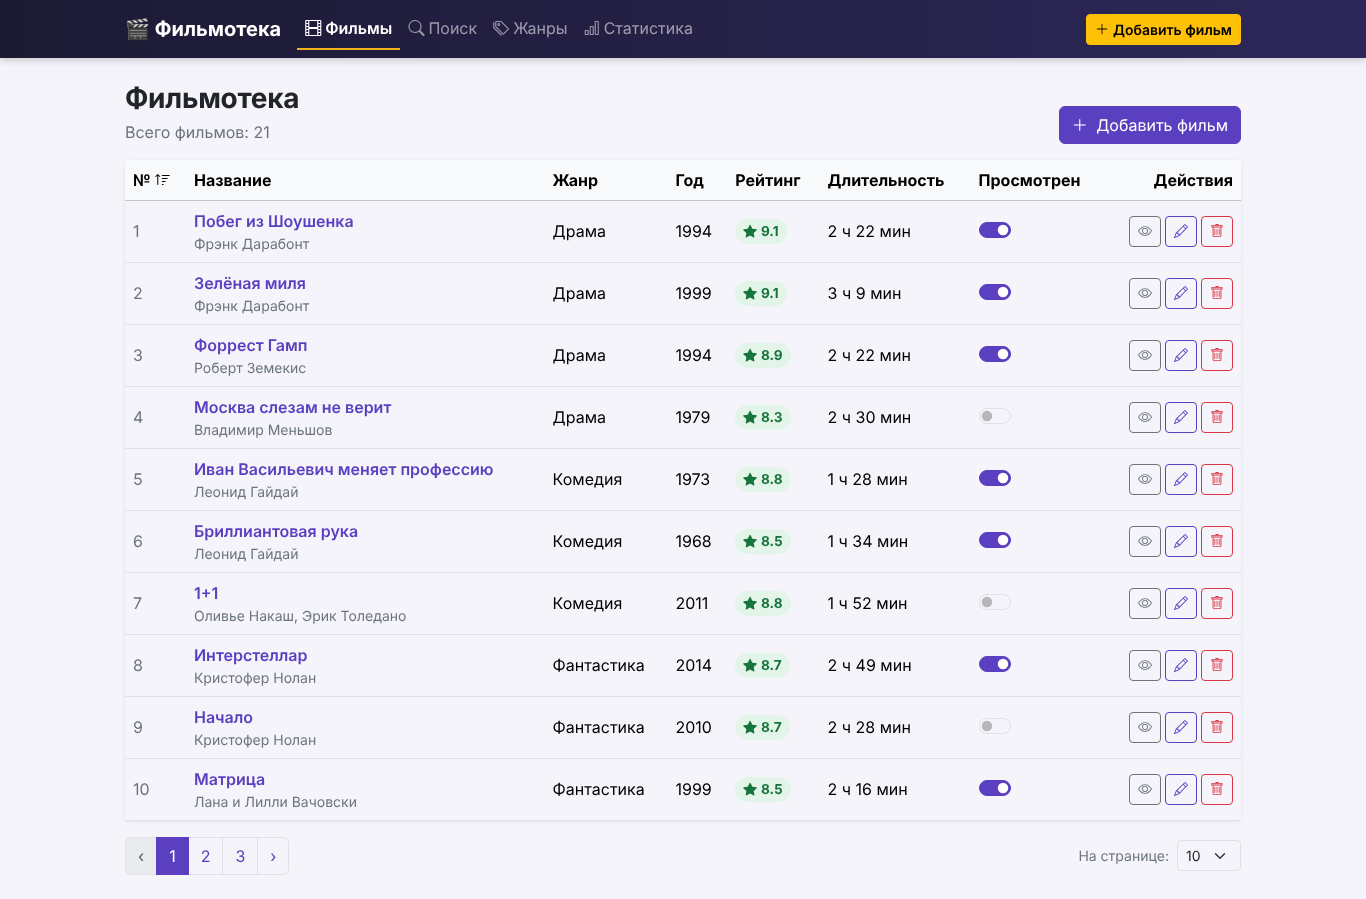
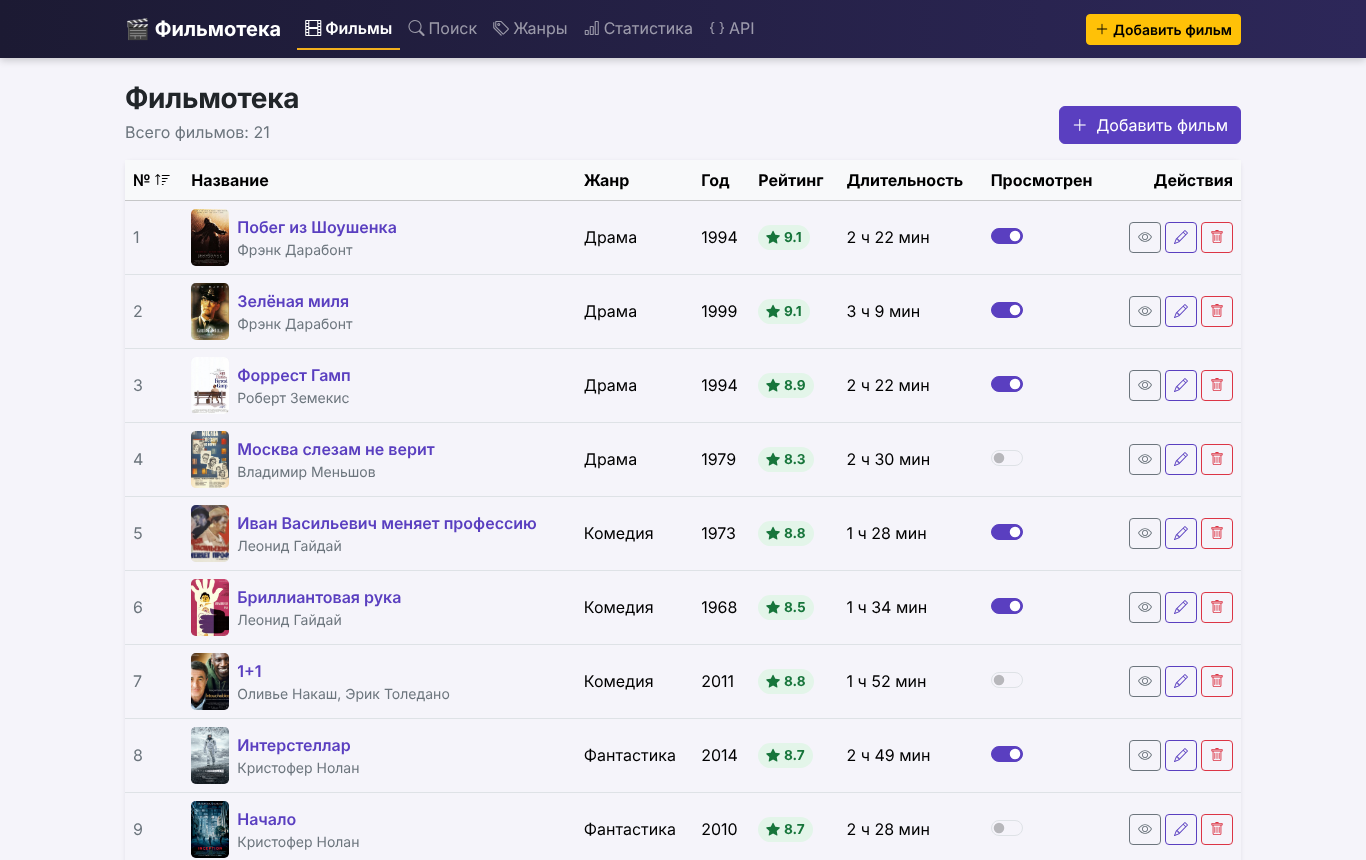
Обложки фильмов: поле poster_url, постеры для стартовых данных, превью в форме
Claude-Session: https://claude.ai/code/session_013Cf29666WTP9W9PGkbtcm4

diff --git a/frontend/src/pages/MovieFormPage.jsx b/frontend/src/pages/MovieFormPage.jsx
@@ -4,11 +4,12 @@ import { useNavigate, useParams } from 'react-router-dom'
 import {
   createMovie, errorMessage, fieldErrors, getGenres, getMovie, updateMovie,
 } from '../api/client.js'
+import Poster from '../components/Poster.jsx'
 
 const MAX_YEAR = new Date().getFullYear() + 5
 const EMPTY = {
   title: '', director: '', genre_id: '', year: '', country: '', duration: '', rating: '',
-  description: '', is_watched: false,
+  description: '', poster_url: '', is_watched: false,
 }
 
 // Проверка на клиенте (повторяет правила бэкенда, чтобы не ждать ответа сервера)
@@ -26,6 +27,8 @@ function validate(f) {
   if (f.rating === '' || Number(f.rating) < 0 || Number(f.rating) > 10)
     e.rating = 'Число от 0 до 10'
   if (f.description.length > 1000) e.description = 'Максимум 1000 символов'
+  if (f.poster_url.trim() && !/^https?:\/\//.test(f.poster_url.trim()))
+    e.poster_url = 'Ссылка должна начинаться с http:// или https://'
   return e
 }
 
@@ -72,6 +75,7 @@ export default function MovieFormPage() {
       director: form.director.trim(),
       country: form.country.trim(),
       description: form.description.trim(),
+      poster_url: form.poster_url.trim(),
       year: Number(form.year),
       duration: Number(form.duration),
       rating: Number(form.rating),
@@ -158,6 +162,23 @@ export default function MovieFormPage() {
               <textarea {...field('description', { rows: 3, maxLength: 1000 })} />
               <div className="form-text text-end">{form.description.length}/1000</div>
               {feedback('description')}
+            </div>
+            <div className="col-12">
+              <label htmlFor="poster_url" className="form-label">Ссылка на обложку</label>
+              <div className="d-flex gap-3 align-items-start">
+                <div className="flex-grow-1">
+                  <input {...field('poster_url', { type: 'url', maxLength: 500,
+                    placeholder: 'https://upload.wikimedia.org/…/poster.jpg' })} />
+                  {feedback('poster_url')}
+                  <div className="form-text">
+                    Необязательно. Прямая ссылка на картинку (jpg, png, webp). Без обложки
+                    показывается значок жанра.
+                  </div>
+                </div>
+                <Poster url={form.poster_url.trim()} title={form.title}
+                        genre={genres.find((g) => String(g.id) === String(form.genre_id))?.name}
+                        size="preview" />
+              </div>
             </div>
             <div className="col-12">
               <div className="form-check form-switch">

diff --git a/frontend/src/pages/MovieListPage.jsx b/frontend/src/pages/MovieListPage.jsx
@@ -4,6 +4,7 @@ import { Link, useSearchParams } from 'react-router-dom'
 import { deleteMovie, errorMessage, getMovies, patchMovie } from '../api/client.js'
 import ConfirmModal from '../components/ConfirmModal.jsx'
 import Pagination from '../components/Pagination.jsx'
+import Poster from '../components/Poster.jsx'
 import RatingBadge from '../components/RatingBadge.jsx'
 import { formatDuration } from '../utils.js'
 
@@ -114,10 +115,15 @@ export default function MovieListPage() {
                 <tr key={m.id}>
                   <td className="text-secondary">{m.id}</td>
                   <td>
-                    <Link to={`/movies/${m.id}`} className="fw-semibold text-decoration-none">
-                      {m.title}
-                    </Link>
-                    <div className="small text-secondary">{m.director}</div>
+                    <div className="d-flex align-items-center gap-2">
+                      <Poster url={m.poster_url} genre={m.genre_name} title={m.title} size="thumb" />
+                      <div>
+                        <Link to={`/movies/${m.id}`} className="fw-semibold text-decoration-none">
+                          {m.title}
+                        </Link>
+                        <div className="small text-secondary">{m.director}</div>
+                      </div>
+                    </div>
                   </td>
                   <td>{m.genre_name}</td>
                   <td>{m.year}</td>

diff --git a/frontend/src/components/Poster.jsx b/frontend/src/components/Poster.jsx
@@ -1,0 +1,29 @@
+import { useEffect, useState } from 'react'
+import { genreIcon } from '../utils.js'
+
+/**
+ * Обложка фильма. Если ссылки нет или картинка не загрузилась —
+ * показывается заглушка с иконкой жанра.
+ * size: 'card' (карточка поиска) | 'lg' (страница фильма) | 'thumb' (таблица) | 'preview' (форма)
+ */
+export default function Poster({ url, genre, title = '', size = 'card', className = '' }) {
+  const [failed, setFailed] = useState(false)
+  useEffect(() => setFailed(false), [url]) // новая ссылка — пробуем загрузить заново
+
+  const showImage = url && !failed
+  return (
+    <div className={`poster poster-${size} ${showImage ? 'has-image' : ''} ${className}`}>
+      {showImage ? (
+        <img
+          src={url}
+          alt={title ? `Обложка: ${title}` : 'Обложка'}
+          loading="lazy"
+          referrerPolicy="no-referrer"
+          onError={() => setFailed(true)}
+        />
+      ) : (
+        <span aria-hidden="true">{genreIcon(genre)}</span>
+      )}
+    </div>
+  )
+}

diff --git a/frontend/src/pages/MovieDetailsPage.jsx b/frontend/src/pages/MovieDetailsPage.jsx
@@ -3,8 +3,9 @@ import { useEffect, useState } from 'react'
 import { Link, useNavigate, useParams } from 'react-router-dom'
 import { deleteMovie, errorMessage, getMovie, patchMovie } from '../api/client.js'
 import ConfirmModal from '../components/ConfirmModal.jsx'
+import Poster from '../components/Poster.jsx'
 import RatingBadge from '../components/RatingBadge.jsx'
-import { formatDate, formatDuration, genreIcon } from '../utils.js'
+import { formatDate, formatDuration } from '../utils.js'
 
 export default function MovieDetailsPage() {
   const { id } = useParams()
@@ -68,7 +69,8 @@ export default function MovieDetailsPage() {
         <div className="card-body p-4">
           <div className="row g-4">
             <div className="col-md-auto">
-              <div className="poster poster-lg mx-auto">{genreIcon(movie.genre_name)}</div>
+              <Poster url={movie.poster_url} genre={movie.genre_name} title={movie.title}
+                      size="lg" className="mx-auto" />
             </div>
             <div className="col">
               <div className="d-flex flex-wrap justify-content-between align-items-start gap-3">

diff --git a/frontend/src/pages/SearchPage.jsx b/frontend/src/pages/SearchPage.jsx
@@ -3,6 +3,7 @@ import { useEffect, useState } from 'react'
 import { Link, useSearchParams } from 'react-router-dom'
 import { errorMessage, getGenres, getMovies } from '../api/client.js'
 import Pagination from '../components/Pagination.jsx'
+import Poster from '../components/Poster.jsx'
 import RatingBadge from '../components/RatingBadge.jsx'
 import { formatDuration, genreIcon } from '../utils.js'
 
@@ -149,7 +150,7 @@ export default function SearchPage() {
                 <Link to={`/movies/${m.id}`} className="text-reset text-decoration-none">
                   <div className="card h-100 movie-card">
                     <div className="card-body d-flex flex-column">
-                      <div className="poster mb-3">{genreIcon(m.genre_name)}</div>
+                      <Poster url={m.poster_url} genre={m.genre_name} title={m.title} className="mb-3" />
                       <div className="d-flex justify-content-between align-items-start gap-2">
                         <h2 className="h6 fw-bold mb-1">{m.title}</h2>
                         <RatingBadge rating={m.rating} />

diff --git a/frontend/src/index.css b/frontend/src/index.css
@@ -123,15 +123,34 @@ body {
   display: flex;
   align-items: center;
   justify-content: center;
-  aspect-ratio: 16 / 9;
+  flex-shrink: 0;
+  overflow: hidden;
+  aspect-ratio: 2 / 3;
   border-radius: 0.5rem;
   background: linear-gradient(160deg, #2d2759, var(--mv-violet));
   font-size: 2.6rem;
 }
+.poster.has-image {
+  background: #e8e5f4;
+}
+.poster img {
+  width: 100%;
+  height: 100%;
+  object-fit: cover;
+}
 .poster-lg {
-  width: 180px;
-  aspect-ratio: 2 / 3;
+  width: 200px;
   font-size: 4.5rem;
+  box-shadow: 0 6px 18px rgba(28, 26, 51, 0.25);
+}
+.poster-thumb {
+  width: 38px;
+  border-radius: 0.3rem;
+  font-size: 1.1rem;
+}
+.poster-preview {
+  width: 120px;
+  font-size: 2.5rem;
 }
 
 .stat-value {

diff --git a/backend/app/seed.py b/backend/app/seed.py
@@ -64,6 +64,32 @@ MOVIES = [
 ]
 
 
+# Обложки: постеры из статей англоязычной Википедии (upload.wikimedia.org)
+POSTERS = {
+    "Побег из Шоушенка": "https://upload.wikimedia.org/wikipedia/en/8/81/ShawshankRedemptionMoviePoster.jpg",
+    "Зелёная миля": "https://upload.wikimedia.org/wikipedia/en/e/e2/The_Green_Mile_%28movie_poster%29.jpg",
+    "Форрест Гамп": "https://upload.wikimedia.org/wikipedia/en/6/67/Forrest_Gump_poster.jpg",
+    "Москва слезам не верит": "https://upload.wikimedia.org/wikipedia/en/a/a3/Moscow_for_US.jpg",
+    "Иван Васильевич меняет профессию": "https://upload.wikimedia.org/wikipedia/en/c/c6/Ivan_Vasilievich_poster.jpg",
+    "Бриллиантовая рука": "https://upload.wikimedia.org/wikipedia/en/9/90/Brilruka.jpg",
+    "1+1": "https://upload.wikimedia.org/wikipedia/en/9/93/The_Intouchables.jpg",
+    "Интерстеллар": "https://upload.wikimedia.org/wikipedia/en/b/bc/Interstellar_film_poster.jpg",
+    "Начало": "https://upload.wikimedia.org/wikipedia/en/2/2e/Inception_%282010%29_theatrical_poster.jpg",
+    "Матрица": "https://upload.wikimedia.org/wikipedia/en/d/db/The_Matrix.png",
+    "Дюна": "https://upload.wikimedia.org/wikipedia/en/8/8e/Dune_%282021_film%29.jpg",
+    "Тёмный рыцарь": "https://upload.wikimedia.org/wikipedia/en/1/1c/The_Dark_Knight_%282008_film%29.jpg",
+    "Безумный Макс: Дорога ярости": "https://upload.wikimedia.org/wikipedia/en/6/6e/Mad_Max_Fury_Road.jpg",
+    "Остров проклятых": "https://upload.wikimedia.org/wikipedia/en/7/76/Shutterislandposter.jpg",
+    "Молчание ягнят": "https://upload.wikimedia.org/wikipedia/en/8/86/The_Silence_of_the_Lambs_poster.jpg",
+    "Криминальное чтиво": "https://upload.wikimedia.org/wikipedia/en/3/3b/Pulp_Fiction_%281994%29_poster.jpg",
+    "Крёстный отец": "https://upload.wikimedia.org/wikipedia/en/1/1c/Godfather_ver1.jpg",
+    "Брат": "https://upload.wikimedia.org/wikipedia/en/4/4f/BrotherPoster.jpg",
+    "Унесённые призраками": "https://upload.wikimedia.org/wikipedia/en/d/db/Spirited_Away_Japanese_poster.png",
+    "Король Лев": "https://upload.wikimedia.org/wikipedia/en/3/3d/The_Lion_King_poster.jpg",
+    "ВАЛЛ·И": "https://upload.wikimedia.org/wikipedia/en/4/4c/WALL-E_poster.jpg",
+}
+
+
 def seed_if_empty(db: Session) -> None:
     if db.scalar(select(func.count(Genre.id))):
         return
@@ -74,5 +100,14 @@ def seed_if_empty(db: Session) -> None:
         db.add(Movie(
             title=title, year=year, director=director, country=country, duration=duration,
             rating=rating, is_watched=watched, genre_id=genres[genre].id, description=desc,
+            poster_url=POSTERS.get(title, ""),
         ))
+    db.commit()
+
+
+def fill_missing_posters(db: Session) -> None:
+    """Для базы, созданной до появления обложек: проставить их стартовым фильмам."""
+    for movie in db.scalars(select(Movie).where(Movie.poster_url == "")):
+        if movie.title in POSTERS:
+            movie.poster_url = POSTERS[movie.title]
     db.commit()

diff --git a/backend/app/schemas.py b/backend/app/schemas.py
@@ -11,6 +11,12 @@ def max_year() -> int:
     return date.today().year + 5  # разрешаем анонсированные фильмы
 
 
+def _check_url(value):
+    if value and not value.startswith(("http://", "https://")):
+        raise ValueError("Ссылка на обложку должна начинаться с http:// или https://")
+    return value
+
+
 class _Input(BaseModel):
     # обрезаем пробелы по краям строк и запрещаем неизвестные поля
     model_config = ConfigDict(str_strip_whitespace=True, extra="forbid")
@@ -57,9 +63,12 @@ class MovieBase(_Input):
     rating: float = Field(..., ge=0, le=10, description="Рейтинг 0–10", examples=[8.7])
     duration: int = Field(..., gt=0, le=1000, description="Длительность, мин", examples=[169])
     is_watched: bool = Field(False, description="Просмотрен")
+    poster_url: str = Field("", max_length=500, description="Ссылка на обложку (http/https)",
+                            examples=["https://upload.wikimedia.org/wikipedia/en/b/bc/Interstellar_film_poster.jpg"])
     genre_id: int = Field(..., gt=0, description="ID жанра", examples=[3])
 
     validate_year = field_validator("year")(_check_year)
+    validate_url = field_validator("poster_url")(_check_url)
 
     @field_validator("rating")
     @classmethod
@@ -86,9 +95,11 @@ class MoviePatch(_Input):
     rating: Optional[float] = Field(None, ge=0, le=10)
     duration: Optional[int] = Field(None, gt=0, le=1000)
     is_watched: Optional[bool] = None
+    poster_url: Optional[str] = Field(None, max_length=500)
     genre_id: Optional[int] = Field(None, gt=0)
 
     validate_year = field_validator("year")(_check_year)
+    validate_url = field_validator("poster_url")(_check_url)
 
     @model_validator(mode="after")
     def _not_empty(self):
@@ -109,6 +120,7 @@ class MovieOut(BaseModel):
     rating: float
     duration: int
     is_watched: bool
+    poster_url: str
     genre_id: int
     genre_name: str
     created_at: datetime

diff --git a/backend/app/main.py b/backend/app/main.py
@@ -10,17 +10,34 @@ from pathlib import Path
 from fastapi import FastAPI, HTTPException
 from fastapi.middleware.cors import CORSMiddleware
 from fastapi.responses import FileResponse, RedirectResponse
+from sqlalchemy import inspect, text
 
 from .database import Base, SessionLocal, engine
 from .routers import genres, movies, stats
-from .seed import seed_if_empty
+from .seed import fill_missing_posters, seed_if_empty
+
+
+def _migrate() -> bool:
+    """Простейшая миграция: в базе, созданной до появления обложек, добавляем колонку.
+    Возвращает True, если колонка была добавлена."""
+    columns = {c["name"] for c in inspect(engine).get_columns("movies")}
+    if "poster_url" in columns:
+        return False
+    with engine.begin() as conn:
+        conn.execute(text(
+            "ALTER TABLE movies ADD COLUMN poster_url VARCHAR(500) NOT NULL DEFAULT ''"
+        ))
+    return True
 
 
 @asynccontextmanager
 async def lifespan(_app: FastAPI):
     Base.metadata.create_all(bind=engine)  # создаём таблицы, если их нет
+    migrated = _migrate()
     with SessionLocal() as db:
         seed_if_empty(db)  # стартовые данные
+        if migrated:
+            fill_missing_posters(db)  # обложки для фильмов из старой базы
     yield
 
 

diff --git a/backend/tests/test_api.py b/backend/tests/test_api.py
@@ -110,6 +110,16 @@ def test_bad_ranges(client):
     assert client.get("/api/movies", params={"min_rating": 9, "max_rating": 5}).status_code == 422
 
 
+def test_poster_url(client):
+    m = client.get("/api/movies/10").json()
+    assert m["title"] == "Матрица" and m["poster_url"].startswith("https://upload.wikimedia.org/")
+    r = client.post("/api/movies", json={**NEW_MOVIE, "poster_url": "ftp://bad"})
+    assert r.status_code == 422 and r.json()["detail"][0]["loc"][-1] == "poster_url"
+    url = "https://example.com/poster.jpg"
+    r = client.patch("/api/movies/10", json={"poster_url": url})
+    assert r.status_code == 200 and r.json()["poster_url"] == url
+
+
 # ------------------------------------------------------------------ поиск / фильтры
 def test_search_by_title_case_insensitive(client):
     r = client.get("/api/movies", params={"q": "МАТРИ"})

diff --git a/backend/app/models.py b/backend/app/models.py
@@ -46,6 +46,7 @@ class Movie(Base):
     rating: Mapped[float] = mapped_column(Float, nullable=False, index=True)  # 0–10
     duration: Mapped[int] = mapped_column(Integer, nullable=False)  # минуты
     is_watched: Mapped[bool] = mapped_column(Boolean, default=False, nullable=False)
+    poster_url: Mapped[str] = mapped_column(String(500), default="", nullable=False)  # обложка
     genre_id: Mapped[int] = mapped_column(
         ForeignKey("genres.id", ondelete="RESTRICT"), nullable=False, index=True
     )

diff --git a/README.md b/README.md
@@ -86,7 +86,7 @@ pytest -v
 │   │       ├── movies.py        /api/movies
 │   │       ├── genres.py        /api/genres
 │   │       └── stats.py         /api/stats, /api/health
-│   ├── tests/test_api.py        24 автотеста (pytest)
+│   ├── tests/test_api.py        25 автотестов (pytest)
 │   └── requirements.txt
 ├── frontend/                    ЛР2 — React-приложение
 │   ├── src/
@@ -108,6 +108,12 @@ pytest -v
 
 ---
 
+## Обложки фильмов
+
+У фильма есть поле `poster_url` — ссылка на картинку. Стартовые фильмы получают постеры из статей англоязычной Википедии (`upload.wikimedia.org`). Для своего фильма ссылку можно вставить в форме, превью появится сразу. Если ссылки нет или картинка не загрузилась, вместо обложки показывается значок жанра. База, созданная до появления обложек, обновляется автоматически при запуске сервера.
+
+---
+
 ## Модель данных
 
 **Genre** (жанр): `id`, `name` (уникальное, 2–50 символов), `description`, `created_at`
@@ -123,6 +129,7 @@ pytest -v
 | `rating` | число | 0–10, округляется до 0,1 |
 | `duration` | целое | 1–1000 минут |
 | `is_watched` | bool | просмотрен ли фильм |
+| `poster_url` | строка | ссылка на обложку (http/https), до 500 символов; можно оставить пустой |
 | `genre_id` | FK → genres | жанр должен существовать |
 | `description` | строка | до 1000 символов |
 
@@ -259,6 +266,6 @@ export const patchMovie = (id, data) => http.patch(`/movies/${id}`, data).then((
 | ![Валидация](docs/screenshots/04_form_validation.png) Проверка формы | ![Форма](docs/screenshots/05_form_filled.png) Добавление фильма |
 | ![Создан](docs/screenshots/06_details_created.png) Фильм добавлен | ![Ошибка 409](docs/screenshots/09_form_server_error.png) Ошибка сервера: дубликат |
 | ![Поиск](docs/screenshots/11_search_title.png) Поиск по названию | ![Фильтры](docs/screenshots/12_search_year_rating.png) Фильтр по году и рейтингу |
-| ![Детали](docs/screenshots/13_details.png) Детали фильма | ![Удаление](docs/screenshots/14_delete_modal.png) Подтверждение удаления |
+| ![Детали](docs/screenshots/13_details.png) Детали фильма с обложкой | ![Удаление](docs/screenshots/14_delete_modal.png) Подтверждение удаления |
 | ![Жанры](docs/screenshots/16_genres.png) Жанры | ![Статистика](docs/screenshots/17_stats.png) Статистика |
 | ![Swagger](docs/screenshots/19_swagger.png) Swagger UI | ![ReDoc](docs/screenshots/21_redoc.png) ReDoc |
